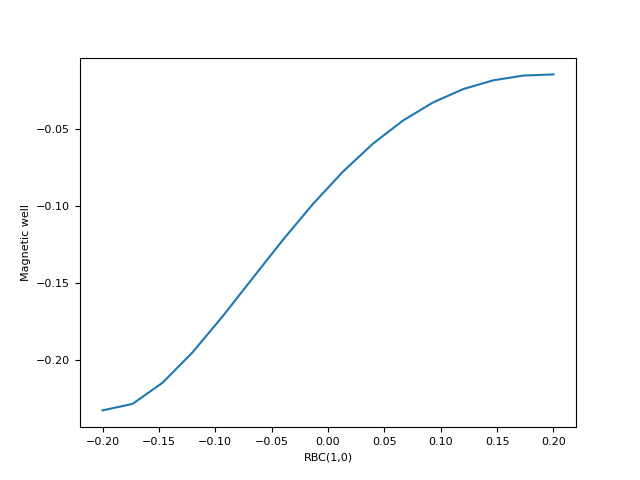
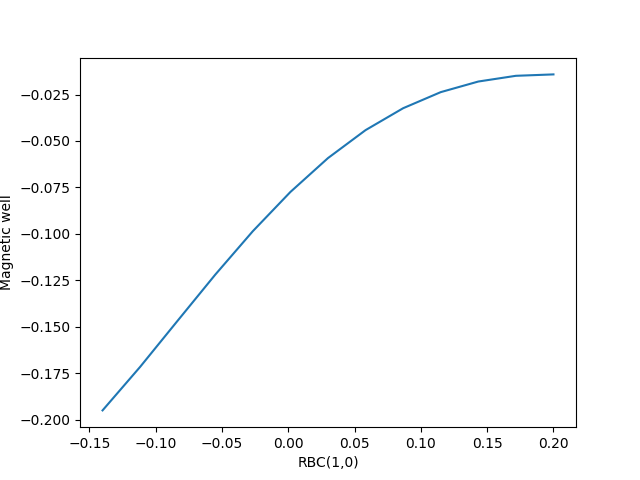
same

diff --git a/GX_SIMSOPT/test_parameters.py b/GX_SIMSOPT/test_parameters.py
@@ -28,19 +28,19 @@ output_dir = 'test_out_nfp4_QH_initial'
 parser = argparse.ArgumentParser()
 parser.add_argument("--LN", type=float, default=1.0)
 parser.add_argument("--LT", type=float, default=3.0)
-parser.add_argument("--nstep", type=int, default=8000)
+parser.add_argument("--nstep", type=int, default=10000)
 parser.add_argument("--dt", type=float, default=0.35)
-parser.add_argument("--nzgrid", type=int, default=91)
+parser.add_argument("--nzgrid", type=int, default=121)
 parser.add_argument("--npol", type=int, default=4)
 parser.add_argument("--desired_normalized_toroidal_flux", type=float, default=0.25)
 parser.add_argument("--alpha_fieldline", type=float, default=0.)
-parser.add_argument("--nhermite", type=int, default=15)
-parser.add_argument("--nlaguerre", type=int, default=5)
+parser.add_argument("--nhermite", type=int, default=14)
+parser.add_argument("--nlaguerre", type=int, default=6)
 parser.add_argument("--nu_hyper", type=float, default=0.5)
 parser.add_argument("--D_hyper", type=float, default=0.05)
-parser.add_argument("--ny", type=int, default=80)
+parser.add_argument("--ny", type=int, default=120)
 parser.add_argument("--nx", type=int, default=80)
-parser.add_argument("--y0", type=float, default=10.0)
+parser.add_argument("--y0", type=float, default=12.0)
 parser.add_argument("--nonlinear", type=bool, default=True)
 args = parser.parse_args()
 ##

diff --git a/GX_SIMSOPT/test_search_global_minimum.py b/GX_SIMSOPT/test_search_global_minimum.py
@@ -25,19 +25,19 @@ this_path = Path(__file__).parent.resolve()
 min_bound = -0.2
 max_bound = 0.2
 vmec_index_scan_opt = 0
-npoints_scan = 16
+npoints_scan = 20
 ftol = 1e-2
 
-initial_config = 'input.nfp2_QA'# 'input.nfp2_QA' #'input.nfp4_QH'
+initial_config = 'input.nfp4_QH'# 'input.nfp2_QA' #'input.nfp4_QH'
 
-HEATFLUX_THRESHOLD = 1000
+HEATFLUX_THRESHOLD = 500
 GROWTHRATE_THRESHOLD = 10
 
 MAXITER = 10
 MAXFUN = 50
 MAXITER_LOCAL = 2
 MAXFUN_LOCAL = 5
-run_scan = True
+run_scan = False
 run_optimization = False
 plot_result = True
 

diff --git a/GX_SIMSOPT/main.py b/GX_SIMSOPT/main.py
@@ -60,19 +60,19 @@ convert_VMEC_to_GX = '/m100/home/userexternal/rjorge00/gx/geometry_modules/vmec/
 if nonlinear:
     LN = 1.0
     LT = 3.0
-    nstep = 8000
+    nstep = 10000
     dt = 0.35
-    nzgrid = 91
+    nzgrid = 125
     npol = 4
     desired_normalized_toroidal_flux = 0.25
     alpha_fieldline = 0
-    nhermite  = 15
-    nlaguerre = 5
+    nhermite  = 14
+    nlaguerre = 6
     nu_hyper = 0.5
     D_hyper = 0.05
-    ny = 80
+    ny = 120
     nx = 80
-    y0 = 10.0
+    y0 = 12.0
 else:
     LN = 1.0
     LT = 3.0
